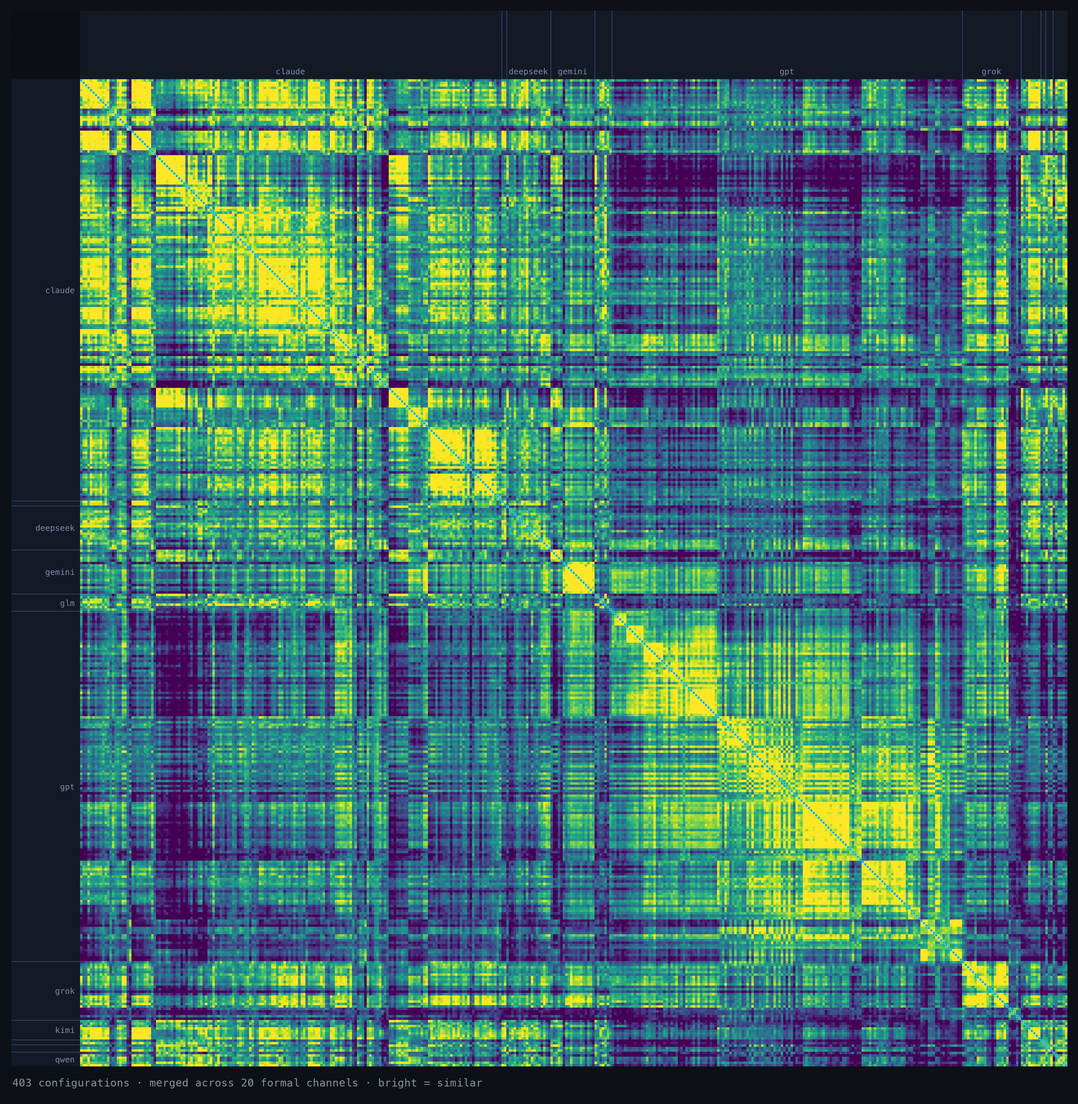
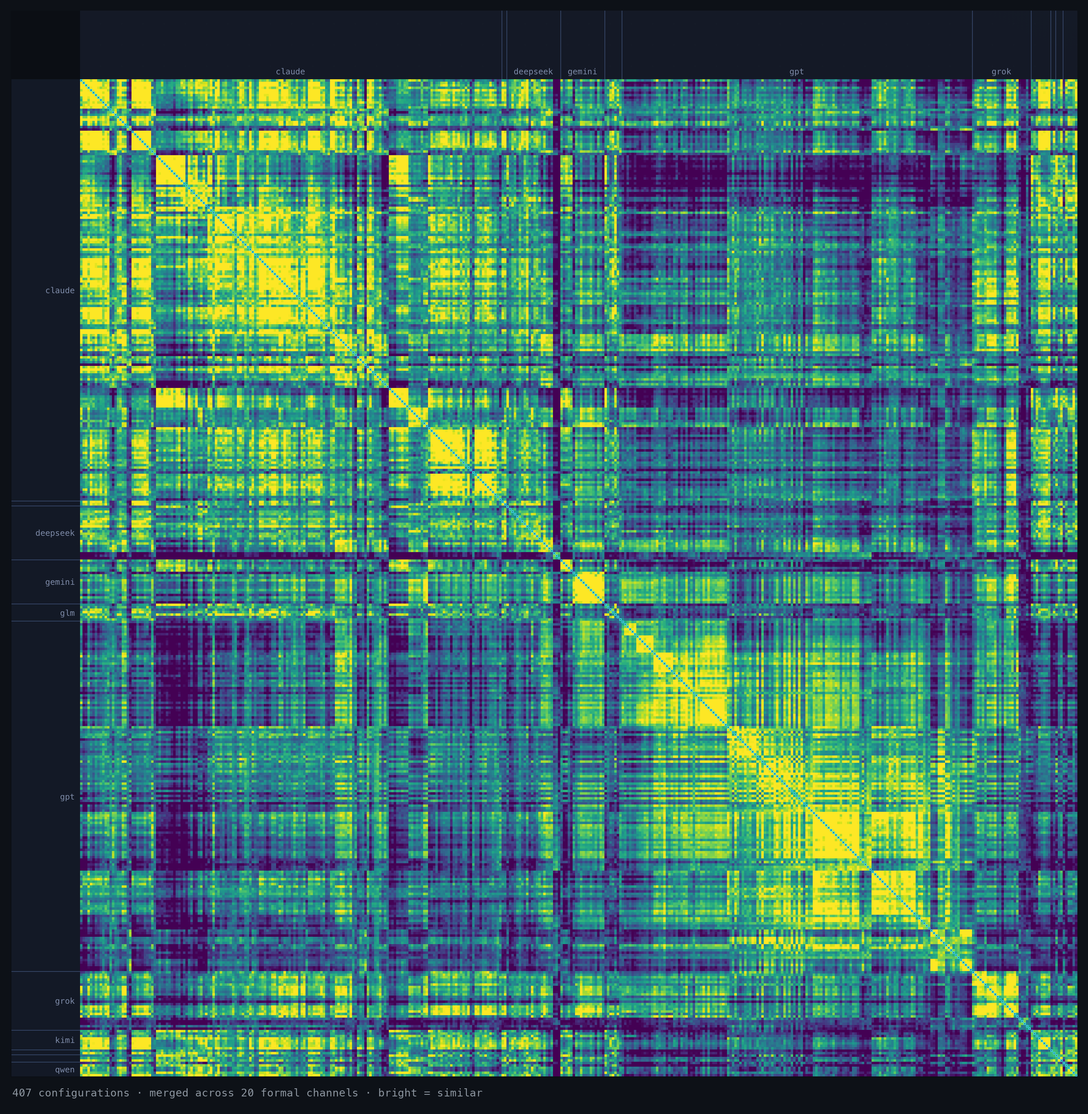
align public artifacts with the 585-config board (Claude 5.5 API, DeepSeek V4.1 Flash 1017)

diff --git a/README.zh.md b/README.zh.md
@@ -40,14 +40,14 @@ MIT
 ## 这张地图
 
 <div align="center">
-<img src="docs/matrix.png" alt="config 对 config 相似度热力图(558 config 集的 403 config harness 视图),merged 合并通道" width="82%">
+<img src="docs/matrix.png" alt="config 对 config 相似度热力图(585 config 集的 407 config harness 视图),merged 合并通道" width="82%">
 </div>
 
 每个被测 configuration 对上其余每一个,跨所有通道合并。亮 = 相似,暗 = 分化。对角线上的亮块是各**模型家族**在自我聚类;那条细亮对角线是每个 config 的**自一致性**(一个模型和它*自己*重跑之间有多像)。这里的相似度是**测量,不是质量分** —— 它只刻画收敛,别无其他。
 
 ### 从矩阵里才看得到的
 
-有些东西只在这里现形。下面的数字都是 `P-min` 集上、跨 **20 条正式通道**的 merged **共识分**,计算于集合的 **2026-08 快照** —— 此后板面继续在长(现为 **558 个 configuration**),线上矩阵永远显示当前值。**是信号,不是证明**(单一 prompt 家族、小 N),而且有两个混淆项贯穿始终:低 effort 的卡会向一个通用基线收敛,共享的 harness(opencode / Kiro / Qoder)本身也会带进脚手架。请据此理解。
+有些东西只在这里现形。下面的数字都是 `P-min` 集上、跨 **20 条正式通道**的 merged **共识分**,计算于集合的 **2026-08 快照** —— 此后板面继续在长(现为 **585 个 configuration**),线上矩阵永远显示当前值。**是信号,不是证明**(单一 prompt 家族、小 N),而且有两个混淆项贯穿始终:低 effort 的卡会向一个通用基线收敛,共享的 harness(opencode / Kiro / Qoder)本身也会带进脚手架。请据此理解。
 
 > **这个数是什么。** 通道之间量纲不可比 —— `c-winnow` 的跨对中位数是 0.22,`x-semantics` 是 0.95 —— 所以直接平均,结果基本上等于"谁的方差大就听谁的"。因此每条通道先按它在全集上的 p1–p99 拉伸,再取平均,让每条通道票权相等。拉伸区间是**冻结**在已发布数据里的,所以这里的数字和线上矩阵显示的是同一个数,筛选视图也不会让它变。**共识分不是相似度百分比**:0.50 的意思是"在这个语料里属于中游",不是"像了一半"。
 
@@ -117,8 +117,8 @@ cd site && npm install && npm run dev   # http://localhost:3000
 
 **完整集**可在线浏览,也能作为单个 pack 下载:
 
-- **完整数据集** → <https://weathercard.secondfirst.ai/downloads/wcb-full-dataset-2026-10-16.tar.gz>
-  (~1.6 GB,sha256 `19645b9e…4598a3`)。解压出 `2026-07-19--unified/` + `index.json`;把 `WCB_DATA_ROOT` 指向解压目录即可在本地跑整套。
+- **完整数据集** → <https://weathercard.secondfirst.ai/downloads/wcb-full-dataset-2026-10-18.tar.gz>
+  (~1.7 GB,sha256 `8edf43eb…48e3ef`)。解压出 `2026-07-19--unified/` + `index.json`;把 `WCB_DATA_ROOT` 指向解压目录即可在本地跑整套。
 
 ## 目录
 

diff --git a/README.md b/README.md
@@ -52,7 +52,7 @@ prompt family, small N). Every one links back to the raw data on the site.
 ## The map
 
 <div align="center">
-<img src="docs/matrix.png" alt="config-vs-config similarity heatmap (403-config harness view of the 558-config set), merged consensus channel" width="82%">
+<img src="docs/matrix.png" alt="config-vs-config similarity heatmap (407-config harness view of the 585-config set), merged consensus channel" width="82%">
 </div>
 
 Every measured configuration against every other, merged across all channels.
@@ -65,7 +65,7 @@ here is a **measurement, not a quality score** — it captures convergence, noth
 
 Some things only show up here. The numbers below are the merged **consensus score**
 on the `P-min` set over the **20 formal channels**, computed on the **2026-08
-snapshot** of the set — the board has grown since (now **558 configurations**), and
+snapshot** of the set — the board has grown since (now **585 configurations**), and
 the live matrix always shows the current values. **Signals, not proof** (single
 prompt family, small N), and two confounds run through all of them: low-effort cards
 converge toward a generic baseline, and a shared harness (opencode / Kiro / Qoder)
@@ -207,8 +207,8 @@ so the repo ships a **flagship subset** — one canonical configuration per fron
 
 The **full set** is browsable live, and downloadable as a single pack:
 
-- **Full dataset** → <https://weathercard.secondfirst.ai/downloads/wcb-full-dataset-2026-10-16.tar.gz>
-  (~1.6 GB, sha256 `19645b9e…4598a3`). Extracts to `2026-07-19--unified/` +
+- **Full dataset** → <https://weathercard.secondfirst.ai/downloads/wcb-full-dataset-2026-10-18.tar.gz>
+  (~1.7 GB, sha256 `8edf43eb…48e3ef`). Extracts to `2026-07-19--unified/` +
   `index.json`; point `WCB_DATA_ROOT` at the extracted directory to serve the
   whole set locally.
 
